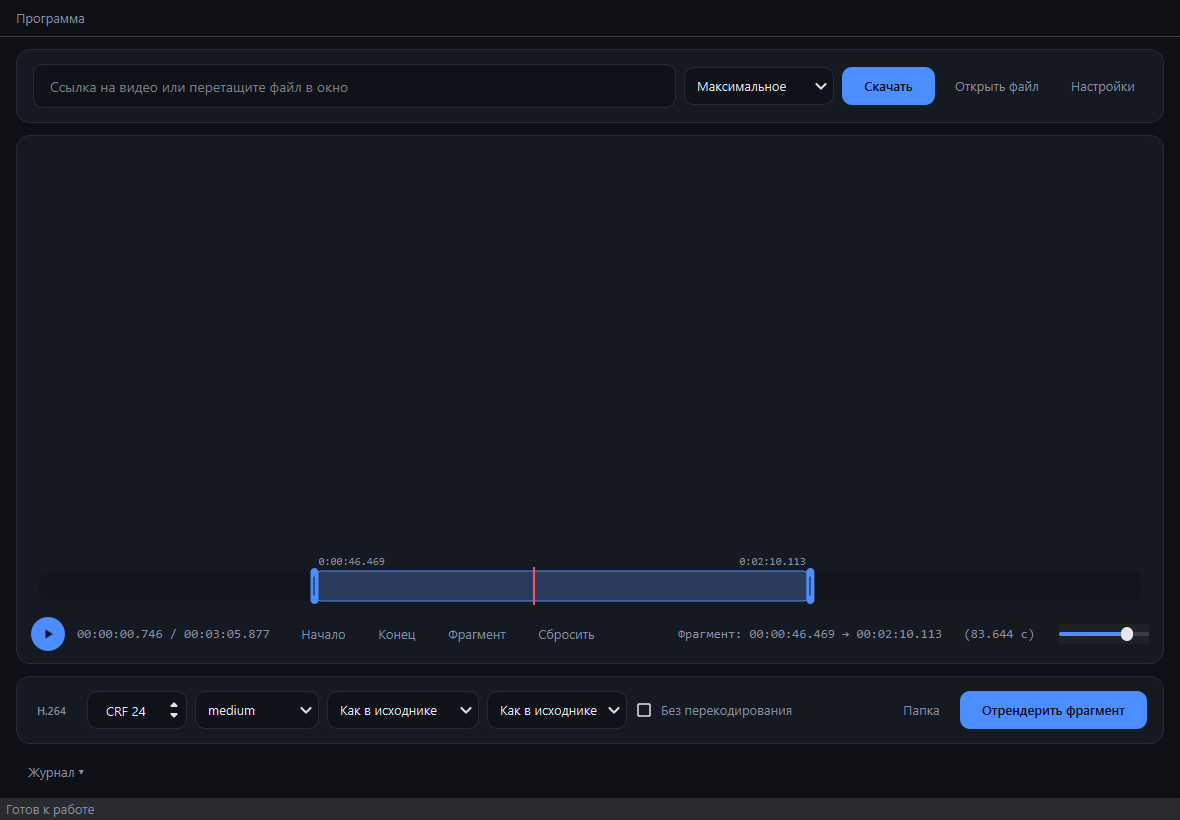
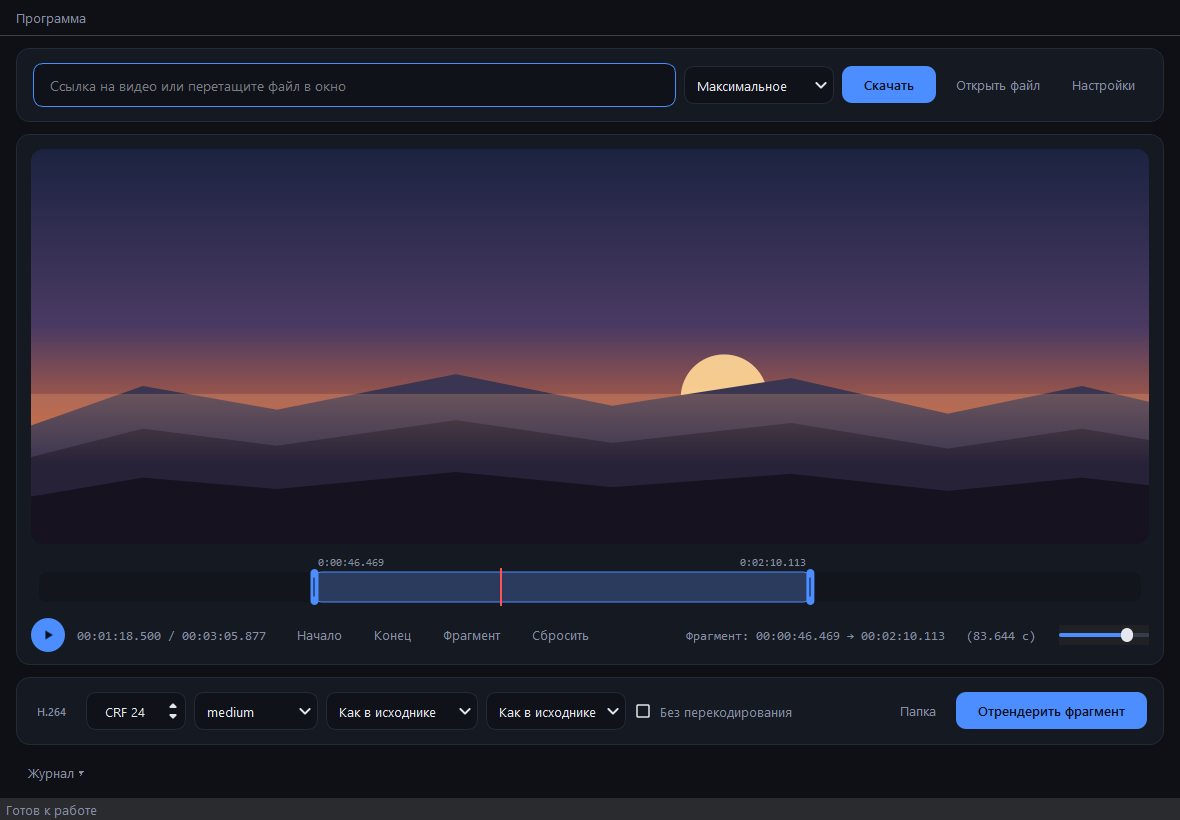
README: скриншот с кадром в плеере, без хвоста после возможностей
Скриншот с пустым чёрным плеером не показывал, как программа выглядит
в работе. Кадр рисуется скриптом tools/make_screenshot.py.

diff --git a/tools/make_screenshot.py b/tools/make_screenshot.py
@@ -1,0 +1,118 @@
+"""Скриншот для README: окно с загруженным видео.
+
+Запуск: python tools/make_screenshot.py assets/screenshot.png
+
+QVideoWidget не попадает в grab(), поэтому кадр рисуем сами и вставляем
+в область плеера. Рисованный кадр вместо настоящего — чтобы не тащить
+в репозиторий чужой видеоряд.
+"""
+import glob
+import os
+import sys
+from pathlib import Path
+
+sys.path.insert(0, r"D:\#WORK\01.PLUGINS . Programs\Clipper")
+
+from PySide6.QtCore import QPointF, QRectF, Qt, QTimer
+from PySide6.QtGui import QColor, QLinearGradient, QPainter, QPainterPath, QPixmap
+from PySide6.QtWidgets import QApplication
+import clipper.app as app_mod
+
+
+def video_frame(width: int, height: int) -> QPixmap:
+    """Стилизованный кадр: закат над горами."""
+    pixmap = QPixmap(width, height)
+    painter = QPainter(pixmap)
+    painter.setRenderHint(QPainter.Antialiasing)
+
+    sky = QLinearGradient(0, 0, 0, height)
+    sky.setColorAt(0.0, QColor("#1b2340"))
+    sky.setColorAt(0.45, QColor("#4a3a63"))
+    sky.setColorAt(0.72, QColor("#c2643f"))
+    sky.setColorAt(1.0, QColor("#f0a15c"))
+    painter.fillRect(0, 0, width, height, sky)
+
+    # Солнце у линии гор.
+    painter.setPen(Qt.NoPen)
+    painter.setBrush(QColor(255, 214, 150, 235))
+    sun_r = height * 0.11
+    painter.drawEllipse(QPointF(width * 0.62, height * 0.63), sun_r, sun_r)
+
+    # Три плана гор: чем дальше, тем светлее и мягче.
+    layers = (
+        (0.70, "#3a3550", 1.00),
+        (0.78, "#272238", 0.72),
+        (0.88, "#16121f", 0.48),
+    )
+    for base, color, scale in layers:
+        path = QPainterPath()
+        path.moveTo(0, height)
+        path.lineTo(0, height * base)
+        peaks = ((0.10, 0.10), (0.22, 0.04), (0.38, 0.13), (0.52, 0.05),
+                 (0.68, 0.12), (0.82, 0.03), (0.94, 0.10), (1.00, 0.06))
+        for x, up in peaks:
+            path.lineTo(width * x, height * (base - up * scale))
+        path.lineTo(width, height)
+        path.closeSubpath()
+        painter.setBrush(QColor(color))
+        painter.drawPath(path)
+
+    # Дымка над дальним планом — кадр перестаёт выглядеть аппликацией.
+    haze = QLinearGradient(0, height * 0.62, 0, height * 0.80)
+    haze.setColorAt(0.0, QColor(255, 180, 130, 60))
+    haze.setColorAt(1.0, QColor(255, 180, 130, 0))
+    painter.fillRect(QRectF(0, height * 0.62, width, height * 0.18), haze)
+
+    painter.end()
+    return pixmap
+
+
+app = QApplication(sys.argv)
+app_mod._apply_theme(app)
+win = app_mod.MainWindow()
+win.resize(1180, 820)
+win.show()
+
+videos = glob.glob(os.path.join(os.environ["TEMP"], "clipper_*", "*.mp4"))
+target = Path(sys.argv[1])
+
+
+def load():
+    if videos:
+        win.load_media(Path(videos[0]))
+    QTimer.singleShot(2500, mark)
+
+
+def mark():
+    duration = win.timeline.duration() or 185877
+    win.timeline.set_duration(duration)
+    win.timeline.set_range(int(duration * 0.25), int(duration * 0.70))
+    win.timeline.set_position(int(duration * 0.42))
+    win._update_range_label()
+    win.time_label.setText("00:01:18.500 / 00:03:05.877")
+    win.log("Скачано: Sunset Timelapse — 1920x1080, 30.00 к/с")
+    QTimer.singleShot(400, shoot)
+
+
+def shoot():
+    shot = win.grab()
+    area = win.video_widget
+    top_left = area.mapTo(win, area.rect().topLeft())
+    rect = QRectF(top_left.x(), top_left.y(), area.width(), area.height())
+
+    frame = video_frame(int(rect.width()), int(rect.height()))
+    painter = QPainter(shot)
+    painter.setRenderHint(QPainter.SmoothPixmapTransform)
+    path = QPainterPath()
+    path.addRoundedRect(rect, 12, 12)      # скругление как у самой области
+    painter.setClipPath(path)
+    painter.drawPixmap(rect.topLeft(), frame)
+    painter.end()
+
+    shot.save(str(target))
+    print("снимок:", target)
+    app.quit()
+
+
+QTimer.singleShot(1200, load)
+app.exec()
